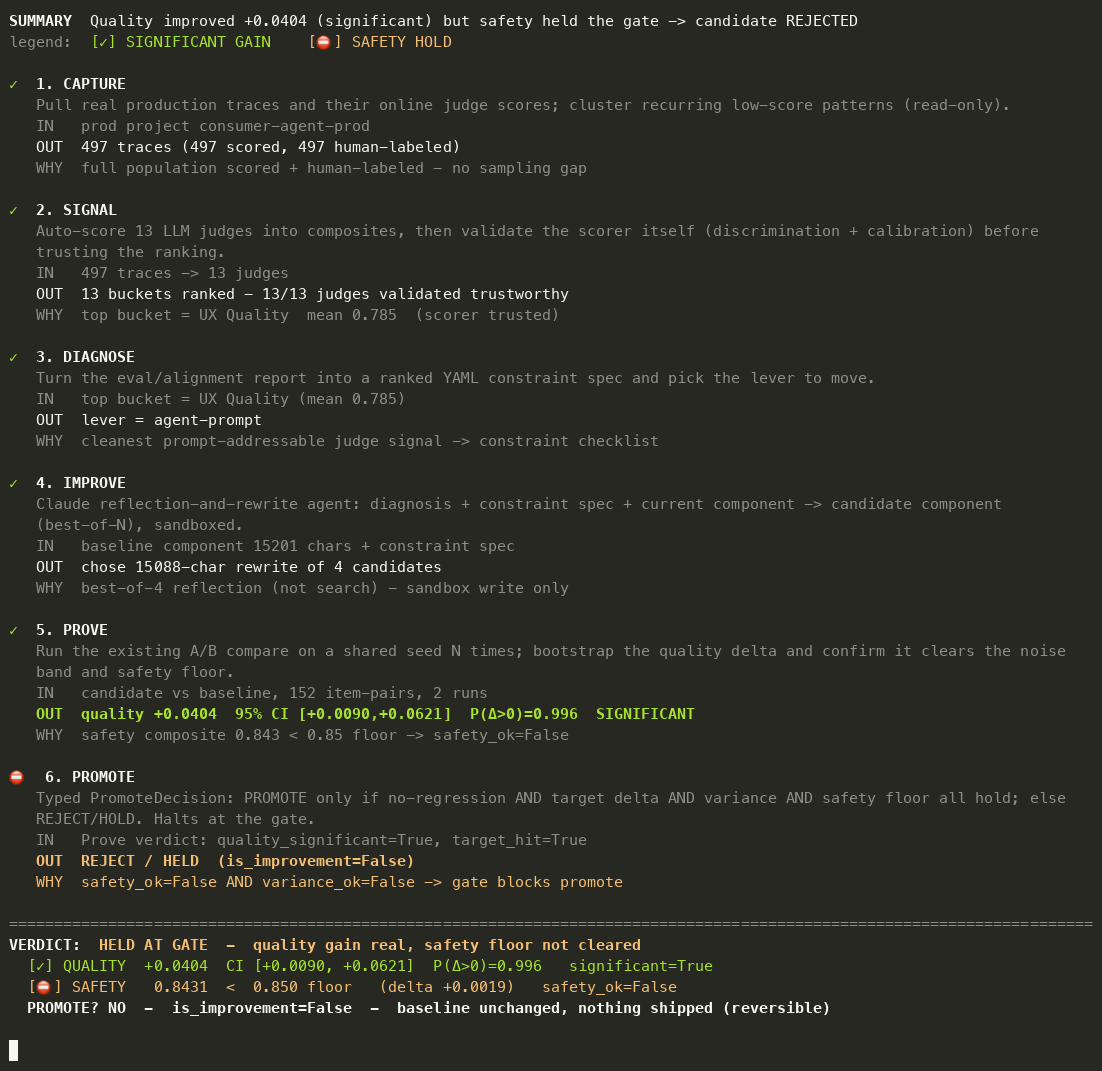
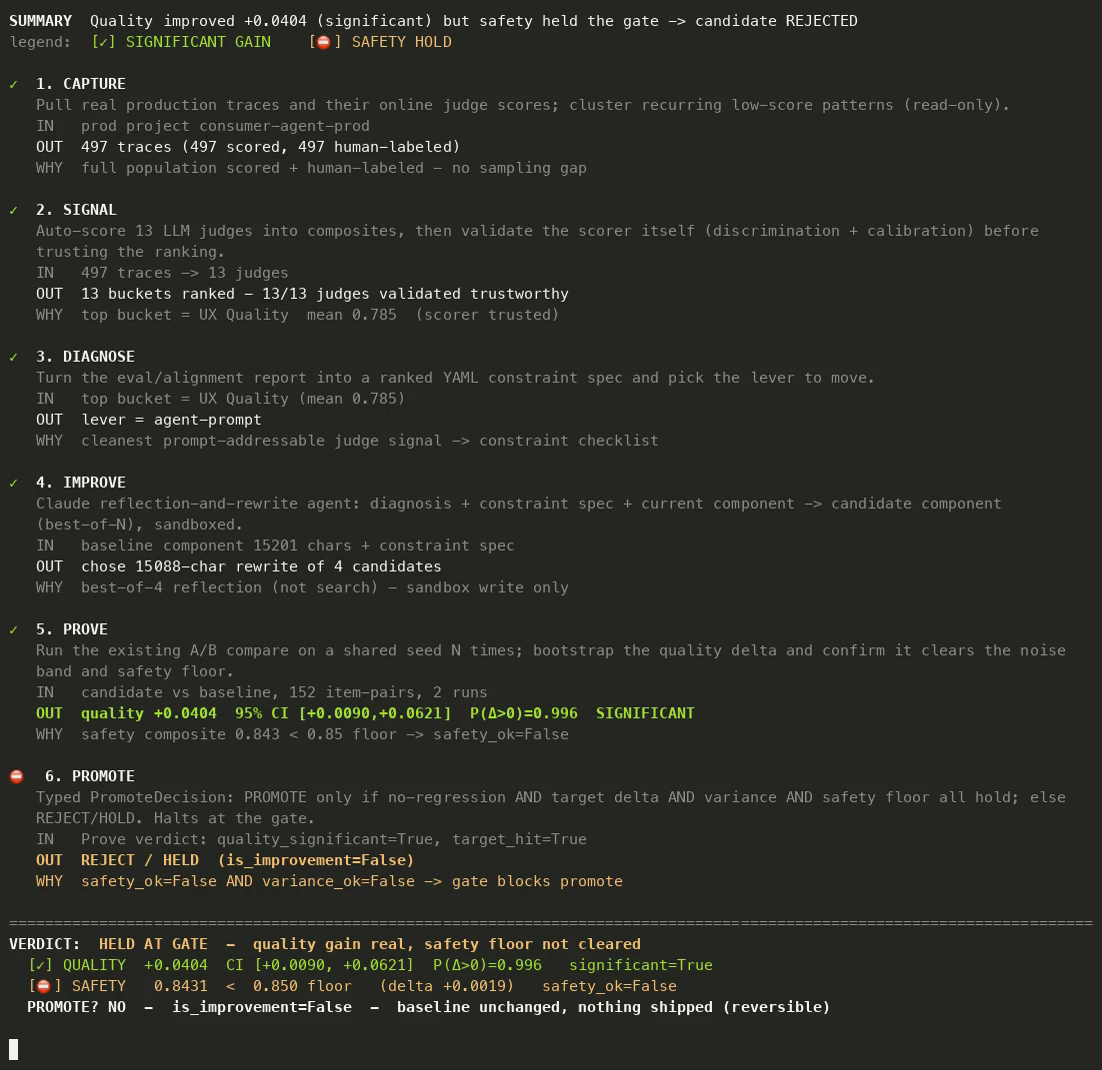
deck: trim demo to 20s + add realization tables to all use-case slides
- Re-time the demo from 33s to 20s: extract the 8 unique step-frames, hold
  each 2.5s (dead air between steps was baked into frame durations, not
  extra frames); poster now the full-run final frame, not the blank first
- Async Matching + Buck Bronson slides get the same 6-block realization table
  as AI Assistant; Signal row bolds each case's defining signal, Promote orange
- Owner notes softened to 'confirm block details + drop in your metric'

diff --git a/apex_loop_deck.html b/apex_loop_deck.html
@@ -337,13 +337,17 @@
   <h2>Async Matching — the crisp-signal case.</h2>
   <div class="uc-slide">
     <div>
-      <span class="uc-tag">Matching agent · own loop</span>
-      <p class="what">A matching system with a <b>crisp accept/reject</b> signal. Ground truth is cheap, so the loop runs the <b>same principles with the trust machinery relaxed</b> — less judge-validation, faster promotion.</p>
-      <div class="uc-rows">
-        <div class="row"><span class="rk">Signal</span><span>crisp — accept / reject</span></div>
-        <div class="row"><span class="rk">Loop fit</span><span>same shape, lighter verification</span></div>
-      </div>
-      <div class="uc-todo">Sangam — add the system one-liner + your metric here.</div>
+      <span class="uc-tag">Matching agent · crisp signal · own loop</span>
+      <table class="realize">
+        <caption>Same six blocks — trust machinery relaxed</caption>
+        <tr><td class="blk">Capture</td><td class="rz">match decisions logged in production</td></tr>
+        <tr><td class="blk">Signal</td><td class="rz"><b>crisp accept / reject</b> — ground truth, no judges to validate</td></tr>
+        <tr><td class="blk">Diagnose</td><td class="rz">rank which match types are failing</td></tr>
+        <tr><td class="blk">Improve</td><td class="rz">optimizer adjusts the matching component</td></tr>
+        <tr><td class="blk">Prove</td><td class="rz">accept-rate before/after (lighter — signal is exact)</td></tr>
+        <tr class="gate"><td class="blk">Promote</td><td class="rz">human ships — faster gate, crisp evidence</td></tr>
+      </table>
+      <div class="uc-todo">Sangam — confirm the block details + drop in your metric.</div>
     </div>
     <div>
       <div class="videobox"><div class="ph"><div class="pi">▶</div>demo — Sangam to add</div></div>
@@ -359,13 +363,17 @@
   <h2>Buck Bronson — the objective-signal case.</h2>
   <div class="uc-slide">
     <div>
-      <span class="uc-tag">Coding agent · own loop</span>
-      <p class="what">A coding / dev agent where the signal is <b>objective</b> — tests, CI, review outcomes. An objective signal lets the loop promote <b>near-automatically</b>, with the human gate lighter than the fuzzy case.</p>
-      <div class="uc-rows">
-        <div class="row"><span class="rk">Signal</span><span>objective — tests / CI / review</span></div>
-        <div class="row"><span class="rk">Loop fit</span><span>same shape, near-automatic promote</span></div>
-      </div>
-      <div class="uc-todo">Akash — add the system one-liner + your metric here.</div>
+      <span class="uc-tag">Coding agent · objective signal · own loop</span>
+      <table class="realize">
+        <caption>Same six blocks — objective signal, near-auto promote</caption>
+        <tr><td class="blk">Capture</td><td class="rz">dev tasks + PRs the agent produced</td></tr>
+        <tr><td class="blk">Signal</td><td class="rz"><b>objective — tests / CI / review outcomes</b></td></tr>
+        <tr><td class="blk">Diagnose</td><td class="rz">rank the failure classes across runs</td></tr>
+        <tr><td class="blk">Improve</td><td class="rz">optimizer revises the agent's approach</td></tr>
+        <tr><td class="blk">Prove</td><td class="rz">pass-rate before/after on held-out tasks</td></tr>
+        <tr class="gate"><td class="blk">Promote</td><td class="rz">near-automatic — human gate is lightest here</td></tr>
+      </table>
+      <div class="uc-todo">Akash — confirm the block details + drop in your metric.</div>
     </div>
     <div>
       <div class="videobox"><div class="ph"><div class="pi">▶</div>demo — Akash to add</div></div>